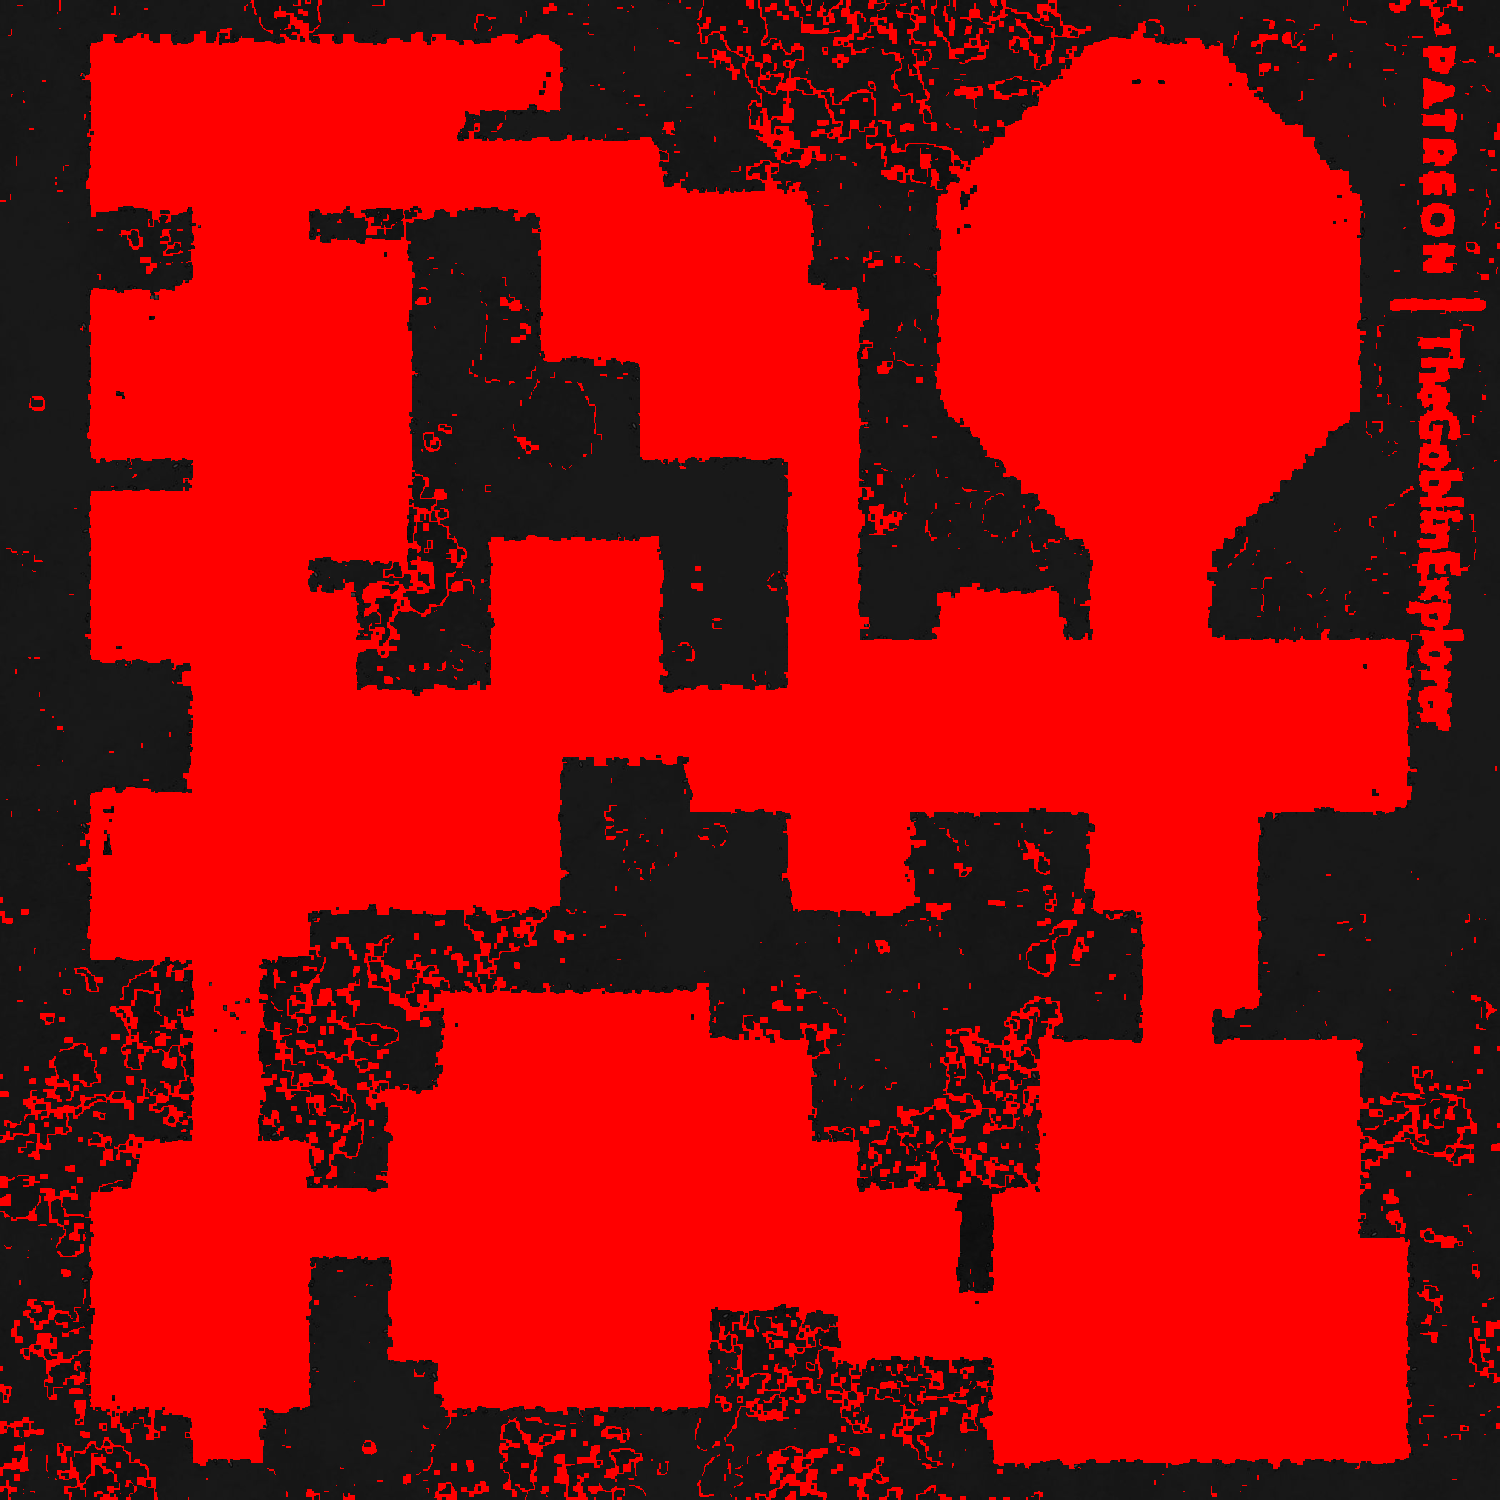
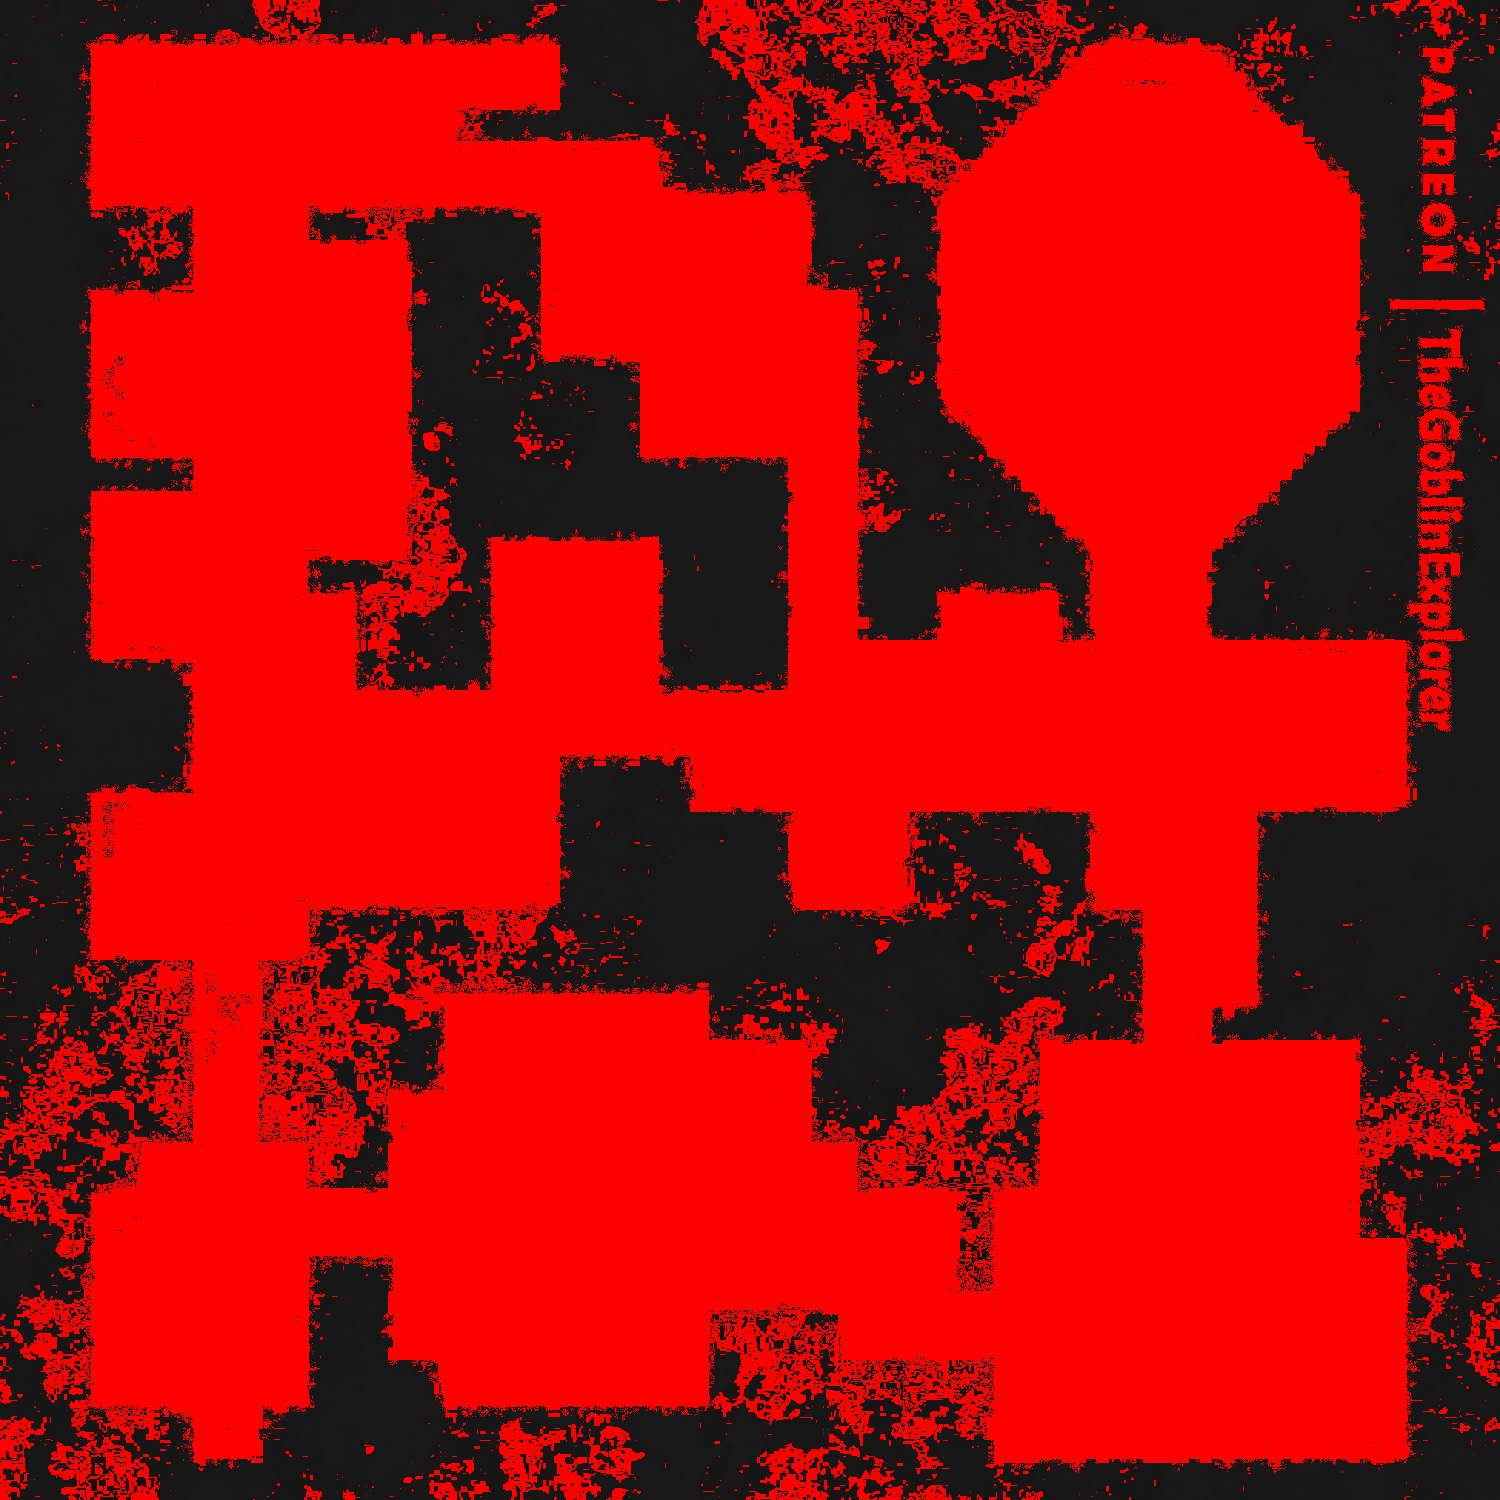
0 threshold

diff --git a/src/gui/app.py b/src/gui/app.py
@@ -235,7 +235,7 @@ class WallDetectionApp(QMainWindow):
         self.current_threshold_layout.addWidget(self.threshold_label)
         
         self.threshold_slider = QSlider(Qt.Orientation.Horizontal)
-        self.threshold_slider.setMinimum(1)
+        self.threshold_slider.setMinimum(0)
         self.threshold_slider.setMaximum(300)
         self.threshold_slider.setValue(100)  # Default value 10.0
         self.threshold_slider.valueChanged.connect(self.update_selected_threshold)
@@ -798,7 +798,7 @@ class WallDetectionApp(QMainWindow):
         color = QColorDialog.getColor(QColor(0, 0, 0), self, "Select Wall Color")
         if color.isValid():
             # Use the global threshold value as default for new colors
-            default_threshold = 0.1
+            default_threshold = 0
             item = self.add_wall_color_to_list(color, default_threshold)
             
             # Select the new color
@@ -926,7 +926,7 @@ class WallDetectionApp(QMainWindow):
         
         # Set up color detection parameters with per-color thresholds
         wall_colors_with_thresholds = None
-        default_threshold = 0.1
+        default_threshold = 0
         
         if self.use_color_detection.isChecked() and self.wall_colors_list.count() > 0:
             # Extract all colors and thresholds from the list widget

diff --git a/src/wall_detection/detector.py b/src/wall_detection/detector.py
@@ -294,10 +294,26 @@ def create_color_mask(image, target_color, threshold):
     - target_color: (B,G,R) tuple of the target color
     - threshold: How close a color needs to be to target_color (0-100)
                 Higher values are more lenient, lower values more strict
+                A value of 0 means exact color match only
     
     Returns:
     - Binary mask with matching pixels as white (255)
     """
+    # Special case for threshold=0: exact color match only
+    if threshold == 0:
+        # Create an empty mask
+        mask = np.zeros(image.shape[:2], dtype=np.uint8)
+        
+        # Extract channels
+        b, g, r = cv2.split(image)
+        
+        # Set pixels that exactly match the target color
+        exact_match = (b == target_color[0]) & (g == target_color[1]) & (r == target_color[2])
+        mask[exact_match] = 255
+        
+        return mask
+    
+    # Regular case for threshold > 0
     # Convert threshold from percentage (0-100) to actual distance in color space
     # Maximum possible distance in RGB space is sqrt(255²+255²+255²) ≈ 441.7
     max_distance = 255.0 * np.sqrt(3)
